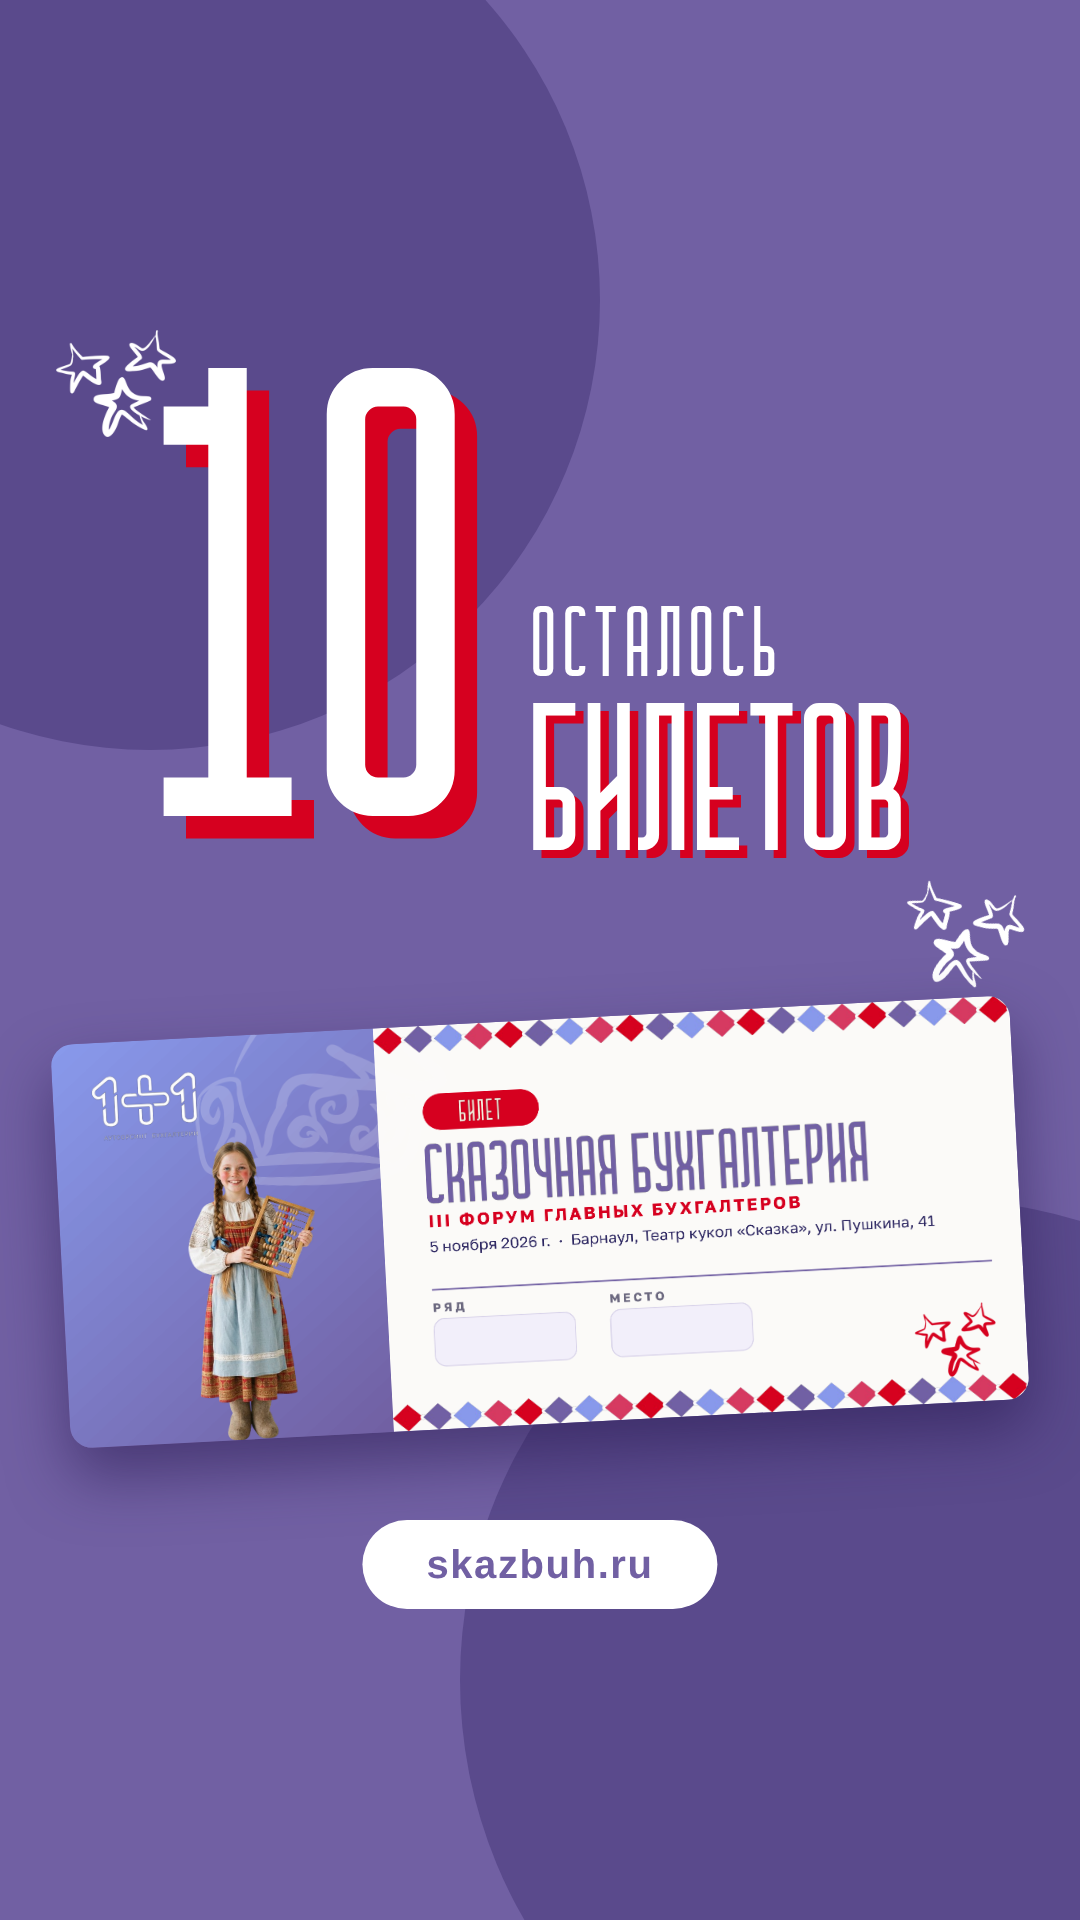
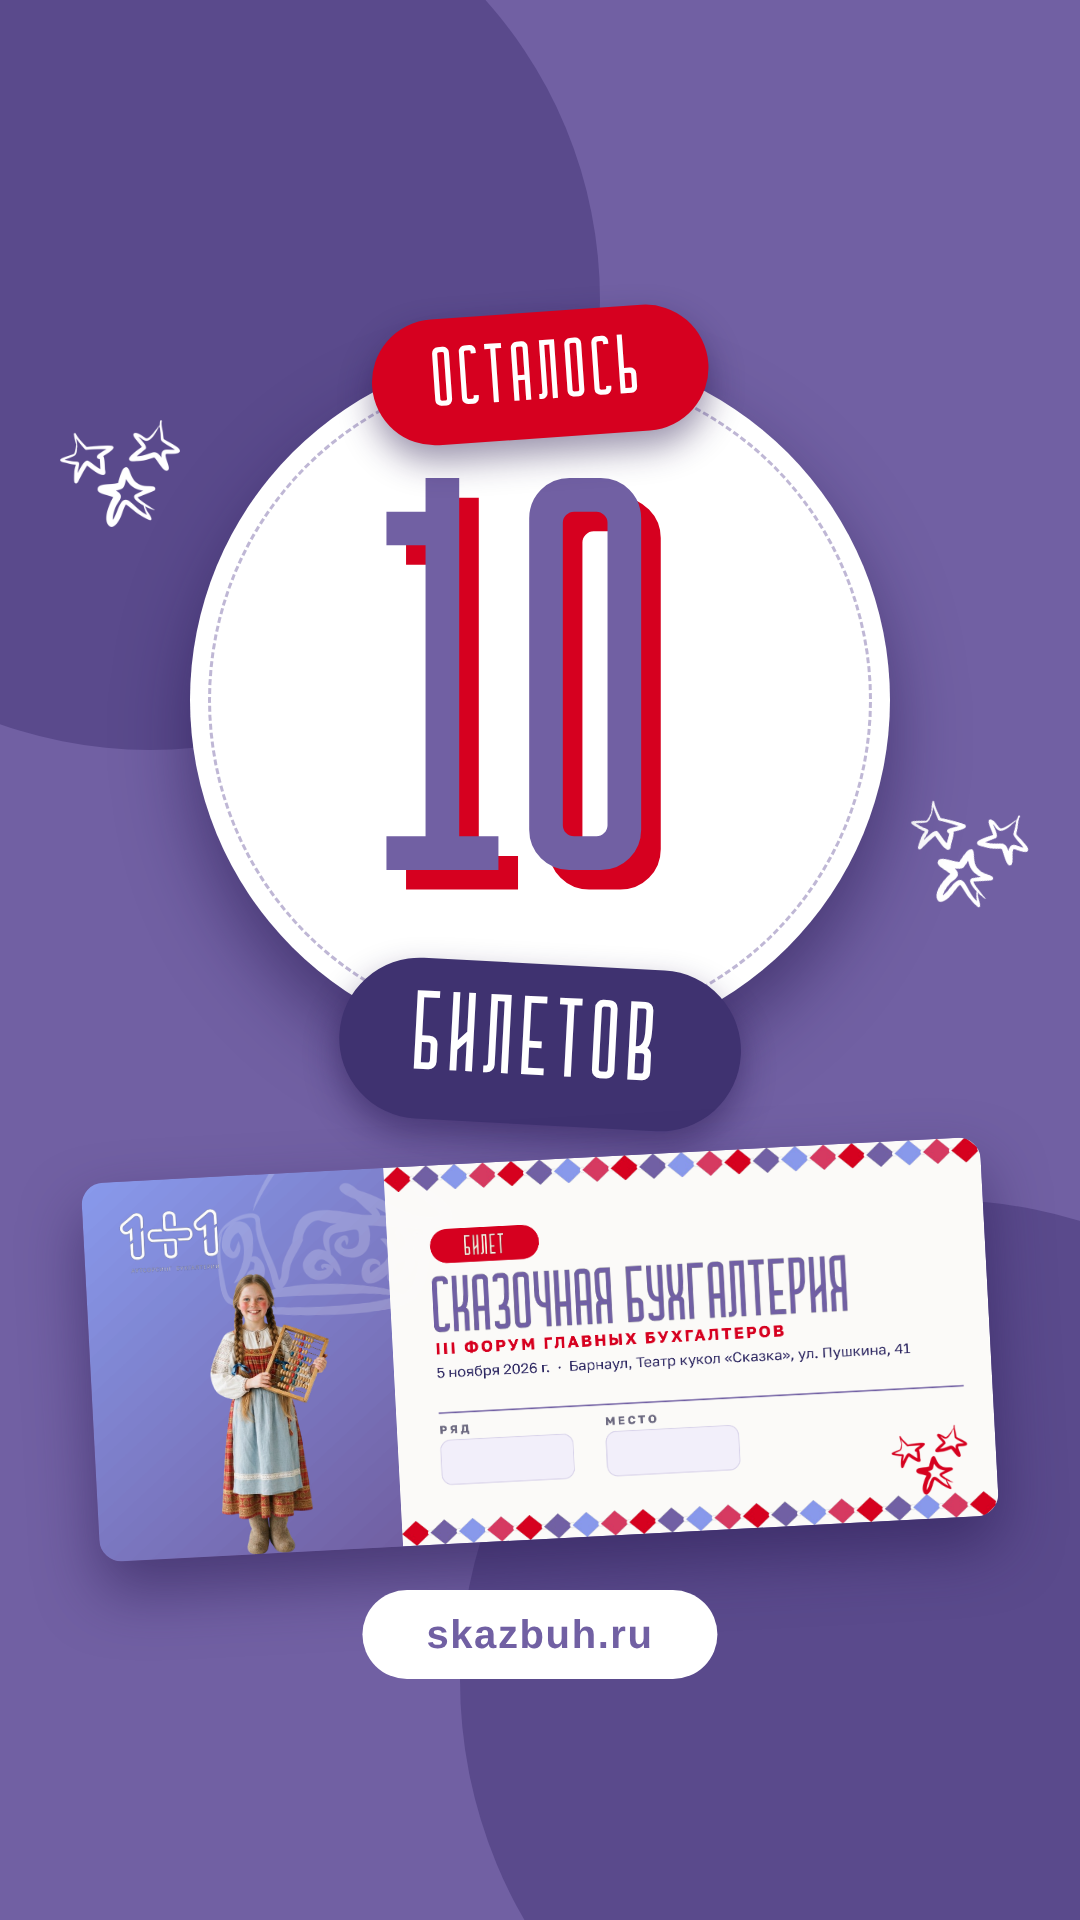
Story: badge layout - giant 10 in a white circle with ribbons 'Осталось' / 'билетов'
Claude-Session: https://claude.ai/code/session_01DZEn5nyTAWE8zavBUm6caU

diff --git a/conference-skazbuh/social/story.html b/conference-skazbuh/social/story.html
@@ -3,18 +3,21 @@
 html,body{width:1080px;height:1920px}
 .bgc.a{left:-300px;top:-150px;width:900px;height:900px}
 .bgc.b{right:-340px;bottom:-240px;width:960px;height:960px}
-.row{position:absolute;left:0;right:0;top:400px;display:flex;justify-content:center;align-items:flex-end;gap:40px;white-space:nowrap}
-.row .n{font-family:'Cramaten',sans-serif;font-size:640px;line-height:.8;color:#fff;text-shadow:.035em .035em 0 var(--red)}
-.row .c{display:flex;flex-direction:column;align-items:flex-start;gap:18px;padding-bottom:30px}
-.row .o{font-family:'Cramaten',sans-serif;font-size:100px;line-height:.9;color:#fff;text-transform:uppercase;letter-spacing:.06em}
-.row .w{font-family:'Cramaten',sans-serif;font-size:210px;line-height:.8;color:#fff;text-transform:uppercase;text-shadow:.04em .04em 0 var(--red)}
-.ticket{position:absolute;left:50%;margin-left:-480px;top:1020px;width:960px;border-radius:22px;box-shadow:0 30px 60px rgba(40,25,80,.55);transform:rotate(-3deg)}
-.btn{left:50%;transform:translateX(-50%);top:1520px;font-size:40px;padding:22px 64px}
-.star{width:120px}.s1{left:56px;top:330px}.s2{right:60px;top:880px;transform:rotate(18deg)}
+.badge{position:absolute;left:190px;top:350px;width:700px;height:700px;border-radius:50%;background:#fff;box-shadow:0 36px 70px rgba(30,15,70,.5);display:flex;align-items:center;justify-content:center}
+.badge:after{content:"";position:absolute;left:18px;top:18px;right:18px;bottom:18px;border-radius:50%;border:3px dashed rgba(113,96,163,.45)}
+.badge .n{font-family:'Cramaten',sans-serif;font-size:560px;line-height:.8;color:var(--violet);text-shadow:.035em .035em 0 var(--red);position:relative;top:30px;left:-8px}
+.rib{position:absolute;left:50%;font-family:'Cramaten',sans-serif;text-transform:uppercase;color:#fff;white-space:nowrap;border-radius:999px;box-shadow:0 16px 34px rgba(30,15,70,.45);letter-spacing:.06em}
+.rib.o{top:312px;background:var(--red);font-size:84px;padding:20px 62px 14px;transform:translateX(-50%) rotate(-4deg)}
+.rib.w{top:964px;background:#3f3270;font-size:112px;padding:22px 76px 16px;transform:translateX(-50%) rotate(3deg)}
+.ticket{position:absolute;left:50%;margin-left:-450px;top:1160px;width:900px;border-radius:22px;box-shadow:0 30px 60px rgba(40,25,80,.55);transform:rotate(-3deg)}
+.btn{left:50%;transform:translateX(-50%);top:1590px;font-size:40px;padding:22px 64px}
+.star{width:120px}.s1{left:60px;top:420px}.s2{right:56px;top:800px;transform:rotate(18deg)}
 </style></head><body>
 <div class="bgc a"></div><div class="bgc b"></div>
 <img class="star s1" src="zvezdy-w.png" alt=""><img class="star s2" src="zvezdy-w.png" alt="">
-<div class="row"><div class="n">10</div><div class="c"><div class="o">Осталось</div><div class="w">билетов</div></div></div>
+<div class="badge"><div class="n">10</div></div>
+<div class="rib o">Осталось</div>
+<div class="rib w">билетов</div>
 <img class="ticket" src="ticket.png" alt="">
 <div class="btn">skazbuh.ru</div>
 </body></html>
